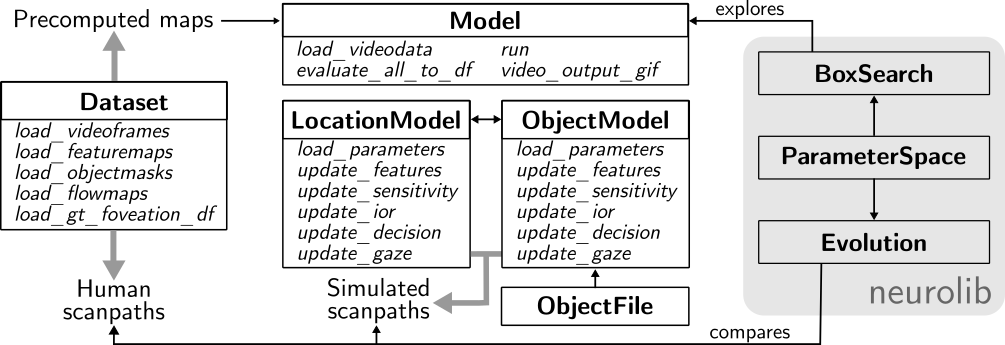
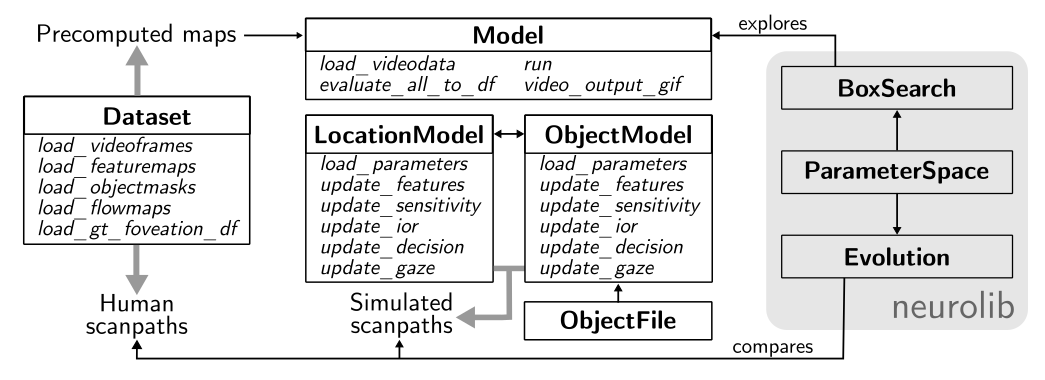
small readme fix

Changed region(s): [[0.0, 0.0, 1.0, 1.0]]

diff --git a/README.md b/README.md
@@ -13,7 +13,7 @@ For a visual guide of how `ScanDy` works, have a look at the [interactive notebo
 
 The structure of `ScanDy` is inspired by the `neurolib` framework, which is also used for parameter optimization and exploration.
 <p align="center">
-  <img src="https://github.com/rederoth/ScanDy/software_architecture.png">
+  <img src="https://github.com/rederoth/ScanDy/blob/main/software_architecture.png">
 </p>
 Scanpath models inherit from the `Model` base class, whose functionality includes initializing and running model simulations and the evaluation and visualization of the resulting scanpaths. Models are implemented in a modular way, consiting of moules for (I) Scene features, (II) Visual sensitivity, (III) Scanpath history, (IV) Decision making, and (V) Gaze update.
 
